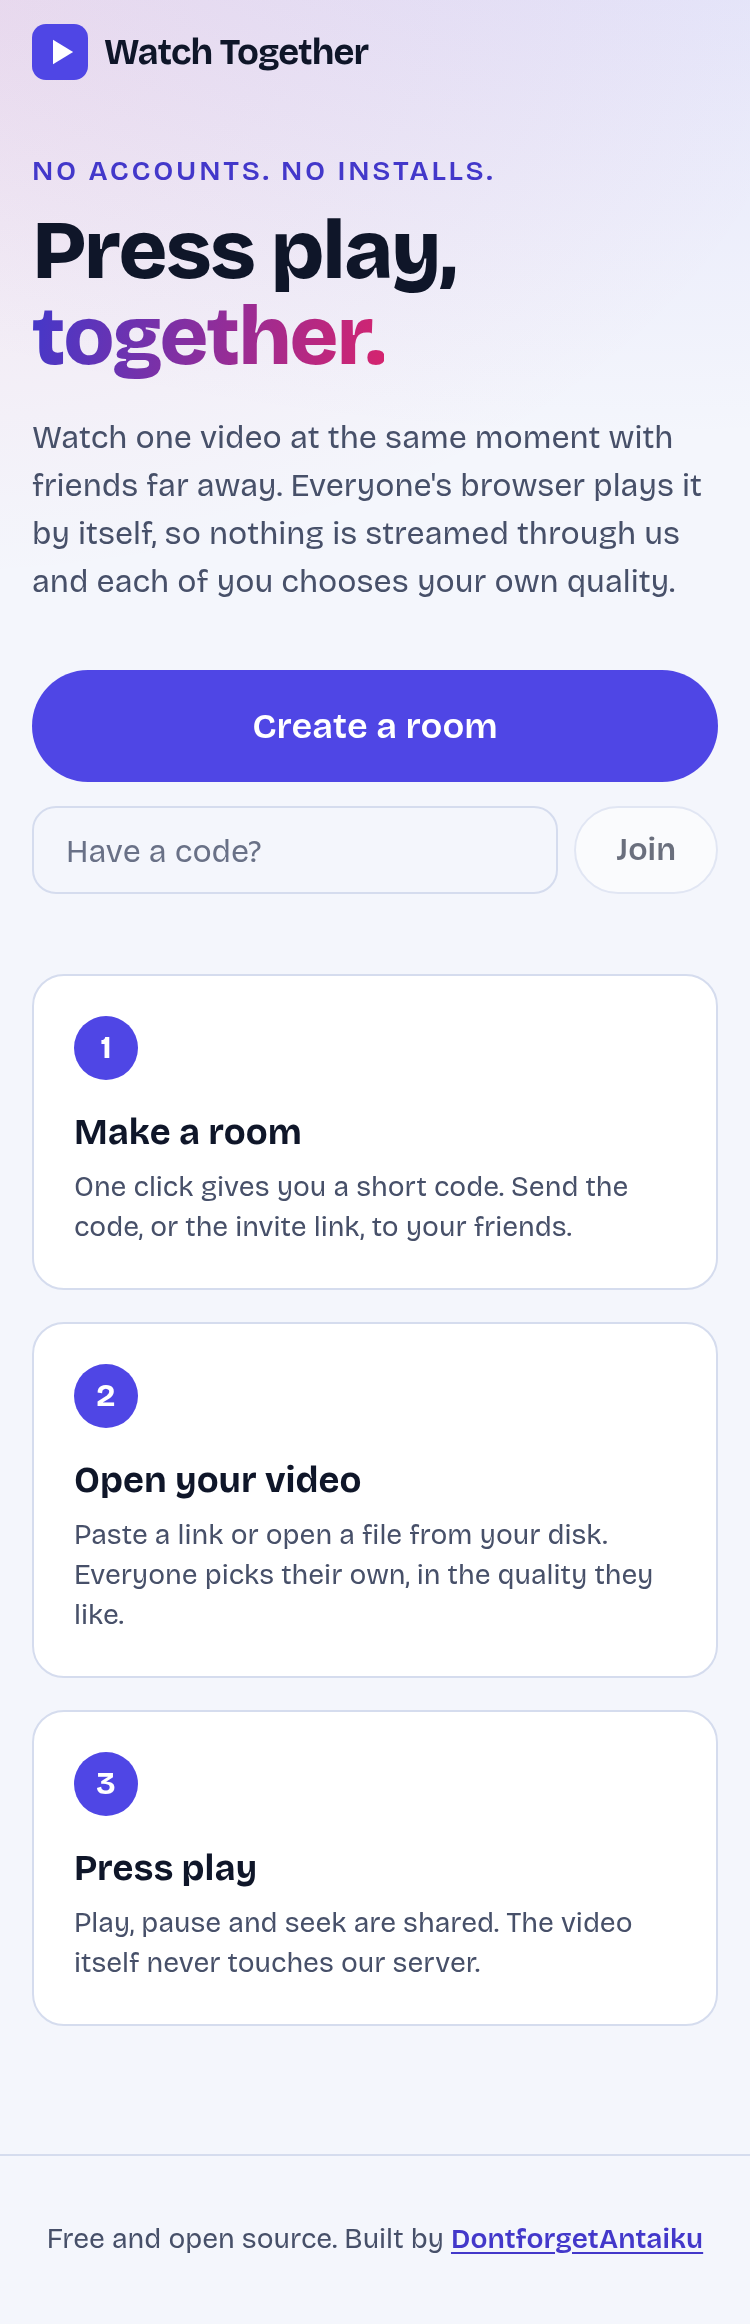
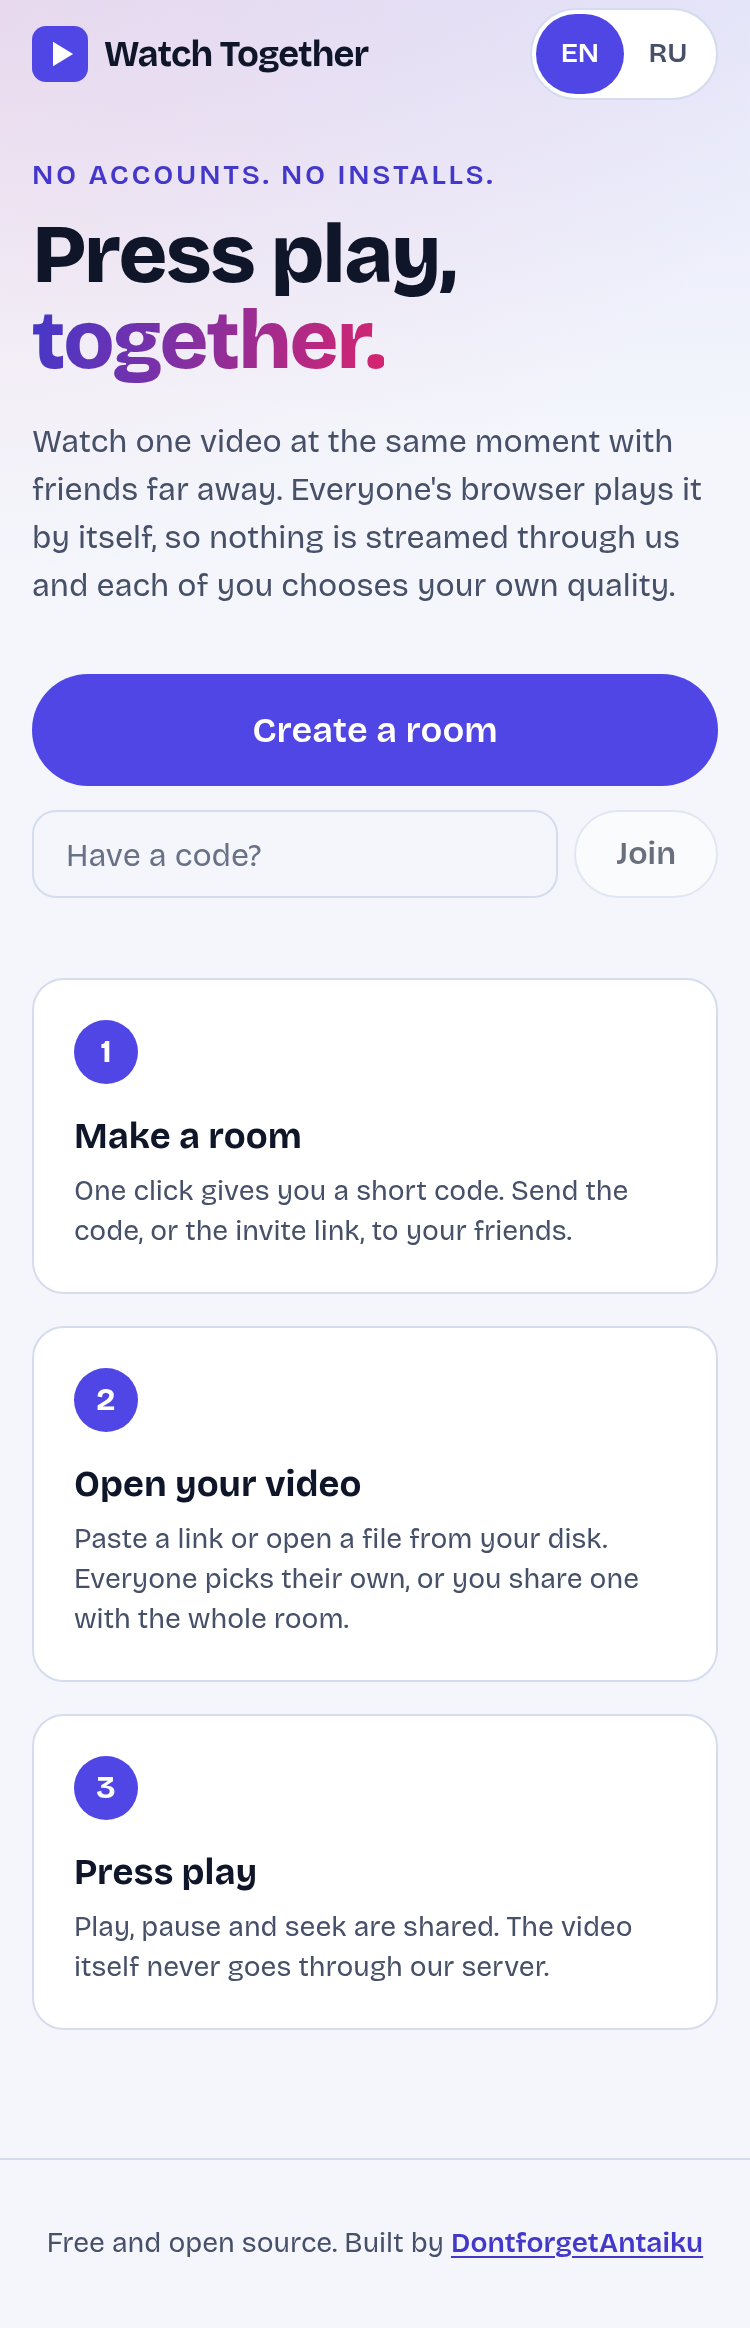
Docs: README for the new sources, protocol and privacy; fresh screenshots

diff --git a/README.md b/README.md
@@ -7,7 +7,7 @@
 Open a page, get a short room code, share it. Everyone's browser plays the video by itself,
 and the server only passes tiny play, pause and seek messages.
 
-Free · Open source · No account · No install · Nothing streamed through the server · Mobile friendly
+Free · Open source · No account · No install · English and Russian · Mobile friendly
 
 <img src="docs/room-light.png" alt="Watch Together — a room, light theme" width="780">
 
@@ -18,12 +18,15 @@ Free · Open source · No account · No install · Nothing streamed through the 
 ## How it works
 
 1. **Create a room.** One click gives you a 6-character code (`K7M2QX`) and an invite link.
-2. **Everyone opens their own video.** Paste a link (`.mp4`, `.webm`, `.m3u8` HLS…) or open a file from your own disk.
-   Each person picks their own source and quality; you can even mix a link and a file.
-3. **Press play.** Play, pause and seek are shared. Late joiners catch up on their own.
+2. **Get a video to everyone**, whichever way suits you:
+   - **Each opens the same thing themselves**: paste a YouTube or Vimeo link, a direct video link (`.mp4`, `.webm`, `.m3u8`), or open a file from your own disk.
+   - **Share your file**: friends watch it straight from your browser, no copy needed.
+   - **Share a browser tab or window** (with sound): for sites that only play on their own page.
+3. **Press play.** Play, pause and seek are shared by everyone. Late joiners catch up on their own.
 
-The video **never touches the server**. The server keeps one tiny state per room
-(`playing`, `position`, `time it was valid`) and forwards changes, so a single small VPS can host thousands of rooms.
+The server never carries video. It keeps one tiny state per room (`playing`, `position`, `time it was valid`),
+forwards changes, and relays the few messages two browsers need to find each other.
+A single small VPS can host thousands of rooms.
 
 <div align="center">
 <img src="docs/home-dark.png" alt="Home page, dark theme" width="520">
@@ -36,15 +39,35 @@ The video **never touches the server**. The server keeps one tiny state per room
 ## Features
 
 - **Rooms without accounts** — short code or invite link; rooms live in memory and disappear 30 minutes after the last person leaves.
-- **Links and local files** — direct video links, **HLS** (`.m3u8`, via [hls.js](https://github.com/video-dev/hls.js), loaded only when needed; Safari and recent Chrome play HLS natively) and files picked from disk (stay on the device).
+- **Four ways to watch together**
+  - **YouTube and Vimeo links** through their official embedded players, kept in sync through their APIs.
+  - **Direct links** — `.mp4`, `.webm` and **HLS** (`.m3u8`, via [hls.js](https://github.com/video-dev/hls.js), loaded only when needed; Safari and recent Chrome play HLS natively).
+  - **Share your file (peer to peer)** — the file is played in your browser and streamed to friends over WebRTC. Everyone can pause and seek; your player obeys.
+  - **Share a tab or window (peer to peer)** — with sound, as a live stream.
 - **Tight sync** — all clocks are aligned to the server; tiny drift is smoothed with a ±5 % speed nudge, big drift is fixed with a seek. Typical error is well under 100 ms on a good connection.
+- **A real player** — one big play button, ±10 s buttons, seek bar with buffered range, volume, full screen, auto-hiding controls,
+  double-tap to skip on touch screens, and keyboard shortcuts (below).
 - **Late join** — a person who joins while the video plays lands on the right second.
-- **Offer a link** — optionally share your link with the room; others get a one-click "Use it" button.
+- **Offer a link** — optionally offer your link to the room; others get a one-click "Use it" button.
 - **Phone-first layout** — pinned player while you scroll, big touch targets, safe-area aware, landscape mode that fits the screen,
   the system **Share** sheet for invites, and a source panel that tucks away once a video is loaded.
+- **English and Russian** — follows the browser language, switch any time; easy to add more (see below).
 - **Light and dark theme** — follows the system.
-- **Private by design** — no analytics, no cookies, no third-party requests, no CDN fonts. The server never sees your file or watches your screen.
+- **Private by design** — no analytics, no cookies, no accounts, no CDN fonts. Third parties are contacted only when you use them:
+  YouTube or Vimeo for their links, and a STUN server (Google's by default) for peer-to-peer sharing. See [Privacy](#privacy).
 - **Tiny backend** — FastAPI, one process, no database, no Redis.
+
+### Keyboard shortcuts
+
+| Key | Action |
+|---|---|
+| `Space` / `K` | Play / pause |
+| `←` / `→` | Back / forward 5 s (`Shift`: 10 s) |
+| `J` / `L` | Back / forward 10 s |
+| `↑` / `↓` | Volume |
+| `M` | Mute |
+| `F` | Full screen |
+| `0` | Back to the start |
 
 ## Which links work
 
@@ -52,13 +75,16 @@ The browser itself downloads the video, so the host has to allow it:
 
 | Source | Works when |
 |---|---|
+| YouTube, Vimeo | The video allows embedding (most do). |
 | Direct file (`.mp4`, `.webm`) | The host allows playback from other sites (most do). |
 | HLS (`.m3u8`) | Safari / recent Chrome: usually yes. Other browsers need the host to send CORS headers (`Access-Control-Allow-Origin`). |
-| Local file | Always. Everyone should open the **same cut**, or positions will not match. |
+| Local file | Always. Either share it with the room, or everyone opens the **same cut**, or positions will not match. |
+| Any site that only plays on its own page | Open it in another tab and **share that tab** (with sound). |
 
 Things that commonly break a link: it **expired** (many CDN links carry a time-limited token), it is **bound to the IP** of whoever copied it,
 the host blocks other websites, or the page is `https` and the link is plain `http` (the browser refuses mixed content).
-The app tells you which kind of failure it saw. If a link does not work for a friend, send the file instead.
+Many streaming sites do exactly this on purpose: their video only plays on their own page, and no other site can embed it.
+For those, share the browser tab, or download the video and share the file. The app tells you which kind of failure it saw.
 
 > Only use videos you are allowed to watch and share. This tool does not download, store or re-stream anything.
 
@@ -150,26 +176,35 @@ Everything is under `/api`:
 |---|---|
 | `POST /rooms` | Create a room → `{ "code": "K7M2QX" }` (rate limited per IP) |
 | `GET /rooms/{code}` | Does it exist, how many people are in it |
-| `GET /rooms/{code}/events` | **SSE** stream: `hello` (your id and token), then a full `state` on every change |
-| `POST /rooms/{code}/msg` | `play` / `pause` / `seek` with `pos`, `ts`, or `source` with `url` |
+| `GET /rooms/{code}/events` | **SSE** stream: `hello` (your id and token), a full `state` on every change, and `signal` messages addressed to you |
+| `POST /rooms/{code}/msg` | `play` / `pause` / `seek` with `pos`, `ts`; `source` to offer something; `signal` to talk to one member |
 | `GET /time` | Server clock, used to align every client |
 | `GET /health` | Liveness |
 
 The room state is one snapshot, so it is idempotent and a slow client simply gets the newest one:
 
 ```json
-{ "t": "state", "playing": true, "pos": 42.5, "at": 1792593246650, "rev": 7, "by": "e9e027b8b0e0", "n": 3, "source": null }
+{ "t": "state", "playing": true, "pos": 42.5, "at": 1792593246650, "rev": 7, "by": "e9e027b8b0e0", "n": 3,
+  "source": { "kind": "yt", "id": "aqz-KE-bpKQ", "by": "e9e027b8b0e0" } }
 ```
+
+`source` is what the room offers to watch: `link` (a URL), `yt`, `vimeo`, or `p2p` (a name, a duration or `live`, and who is sharing).
+A `p2p` offer disappears when its owner leaves.
 
 A client computes where the shared playhead is *now* as `pos + (serverNow − at) / 1000` while playing, and `pos` while paused.
 The sender stamps its position with its own server-time estimate, which cancels its network delay.
 
 **Staying in sync without echo loops.** A player only announces a local action when it *differs* from what the room already
 believes, so a player that merely obeyed the room never speaks. Drift is checked once a second: gap above 1.2 s → seek,
-above 0.15 s → playback speed 0.95 or 1.05, otherwise 1.0.
+above 0.15 s → playback speed 0.95 or 1.05, otherwise 1.0. The same engine drives HTML video, YouTube and Vimeo through a small adapter.
 
-**Abuse limits.** Strict message validation (no unknown fields, finite bounded numbers, `http(s)` links only), a token bucket per
-connection, a cap on rooms and people per room, per-IP room creation limit, origin check, per-member secret token on every message.
+**Peer-to-peer sharing.** The sharer captures its playing file (`captureStream`) or tab (`getDisplayMedia`). A viewer sends a WebRTC offer to the
+sharer through the room's `signal` messages, the sharer answers, and the video then flows directly between the two browsers
+(up to 8 viewers per sharer, capped at 4 Mbit/s each). Viewers' play, pause and seek go to the room; the sharer's player obeys, so the stream follows.
+The server only relays the offer and answer (size limited, to one named member).
+
+**Abuse limits.** Strict message validation (no unknown fields, finite bounded numbers, `http(s)` links only, fixed shapes for sources),
+a token bucket per connection, a cap on rooms and people per room, per-IP room creation limit, origin check, per-member secret token on every message.
 There is no personal data: no accounts, no stored IPs beyond a short in-memory rate-limit window.
 
 ## Project structure
@@ -185,8 +220,12 @@ backend/
 └── Dockerfile               python:3.14-slim
 frontend/
 ├── src/
-│   ├── components/          Home, Room, Player, SourcePanel, RoomCode, Logo, Footer (each: Name/Name.tsx + Name.css)
+│   ├── components/          Home, Room, Player, VideoPlayer, EmbedPlayer, StreamPlayer, Controls, SourcePanel, … (each: Name/Name.tsx + Name.css)
+│   ├── i18n/                i18next setup and locales/{en,ru}.json
 │   ├── lib/useRoom.ts       SSE connection and message sending
+│   ├── lib/engine.ts        the sync engine (one player ↔ the room's playhead)
+│   ├── lib/adapters.ts      HTML video, YouTube and Vimeo behind one interface
+│   ├── lib/p2p.ts           WebRTC sharer and viewer
 │   ├── lib/clock.ts         server clock estimate and playhead maths
 │   ├── lib/attach.ts        links → <video>, hls.js on demand, friendly errors
 │   └── index.css            design tokens (light/dark) and shared controls
@@ -195,13 +234,43 @@ docker-compose.yml           backend + frontend-builder
 docs/                        screenshots used in this README
 ```
 
-**Stack:** Vite · React 19 · TypeScript · Tailwind CSS v4 · hls.js · FastAPI · uvicorn.
+**Stack:** Vite · React 19 · TypeScript · Tailwind CSS v4 · react-i18next · hls.js · @vimeo/player · FastAPI · uvicorn.
 
 ## Limits and ideas
 
+- **Sharing a file** needs a browser that can capture a playing `<video>` (Chrome, Edge, Firefox on a computer; not Safari or phones). Viewers can be on any device.
+  Quality depends on the sharer's upload speed. Strict networks or VPNs may block a direct connection; add a TURN server (below) if that happens to you.
+- **Sharing a tab** works in Chrome and Edge (with tab sound) and Firefox (video only), on computers. Play and pause in the shared tab itself; viewers just watch.
 - Playback speed is not synced (the speed is used internally to nudge small drifts).
 - If someone's video buffers for a long time, the others keep playing; that person catches up with a seek.
-- No chat, no accounts, no subtitles sync yet. Pull requests are welcome.
+- VK Video and other embed APIs are not supported yet. No chat, no subtitles sync. Pull requests are welcome.
+
+### Your own STUN / TURN servers
+
+Peer-to-peer sharing uses `stun:stun.l.google.com:19302` by default to find each side's public address. To use your own servers (a TURN server relays
+the video when a direct connection is impossible), build the frontend with:
+
+```bash
+VITE_ICE_SERVERS='[{"urls":"turn:turn.example.com:3478","username":"user","credential":"secret"}]' npm run build
+```
+
+Credentials in a frontend build are public, so use short-lived TURN credentials.
+
+## Adding a language
+
+1. Copy [`frontend/src/i18n/locales/en.json`](frontend/src/i18n/locales/en.json) to `xx.json` and translate every value (keep the keys;
+   plural keys end in `_one`, `_few`, `_many`, `_other` as the language needs).
+2. In [`frontend/src/i18n/index.ts`](frontend/src/i18n/index.ts) import the file, add it to `resources`, `supportedLngs` and `LANGUAGES`.
+
+## Privacy
+
+No analytics, no cookies, no accounts, no personal data on the server. Files you open are read locally and never uploaded.
+Things worth knowing:
+
+- Using a **YouTube** or **Vimeo** link loads their player, which talks to them (YouTube through its privacy-enhanced domain, Vimeo with tracking off).
+- **Peer-to-peer sharing** asks a STUN server for your public address, and the people in the room who watch your share connect directly to your IP address.
+  Only share with people you trust.
+- The room code is the only secret. Anyone who has it can join, so don't post it publicly.
 
 ## Contributing
 
